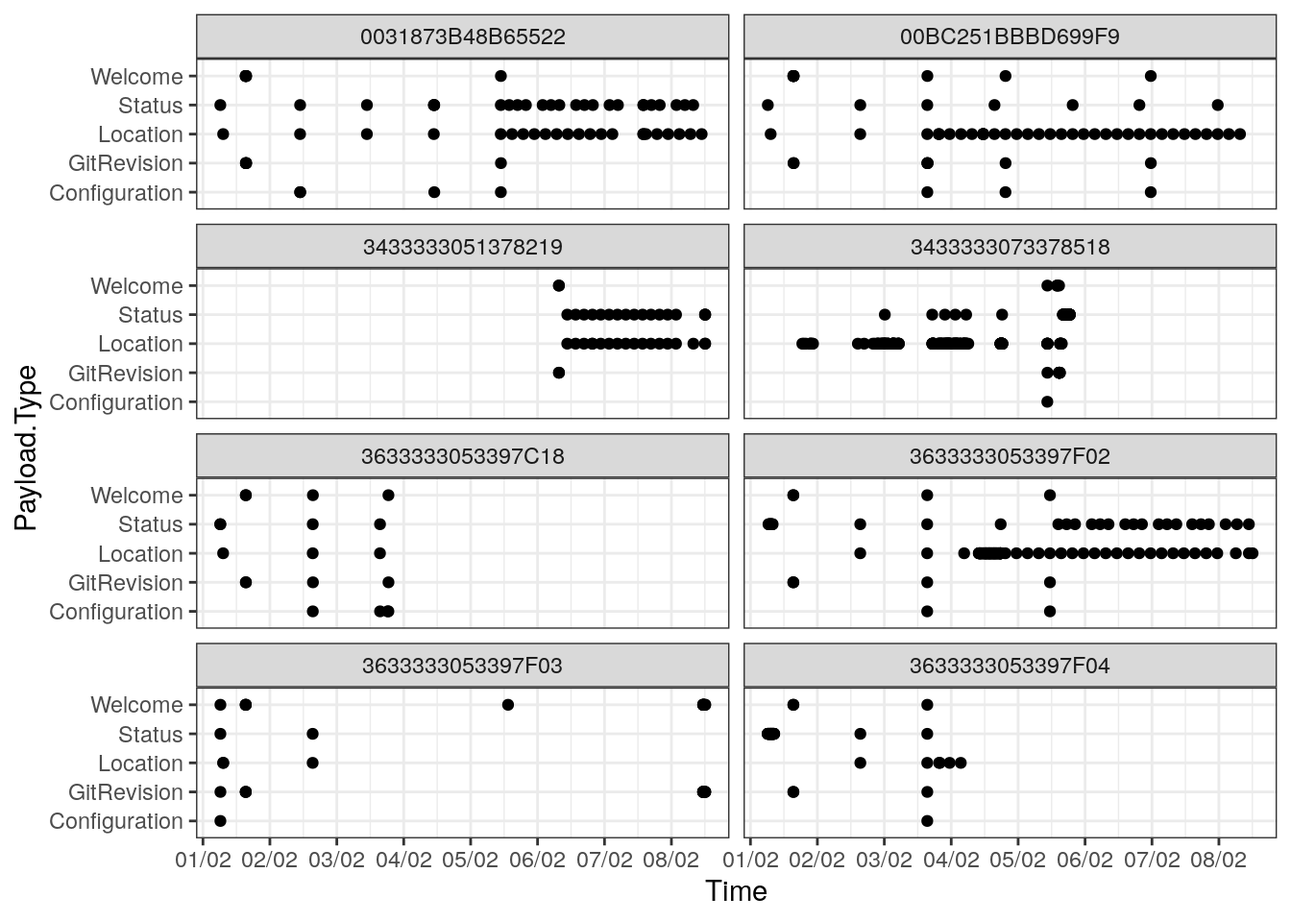
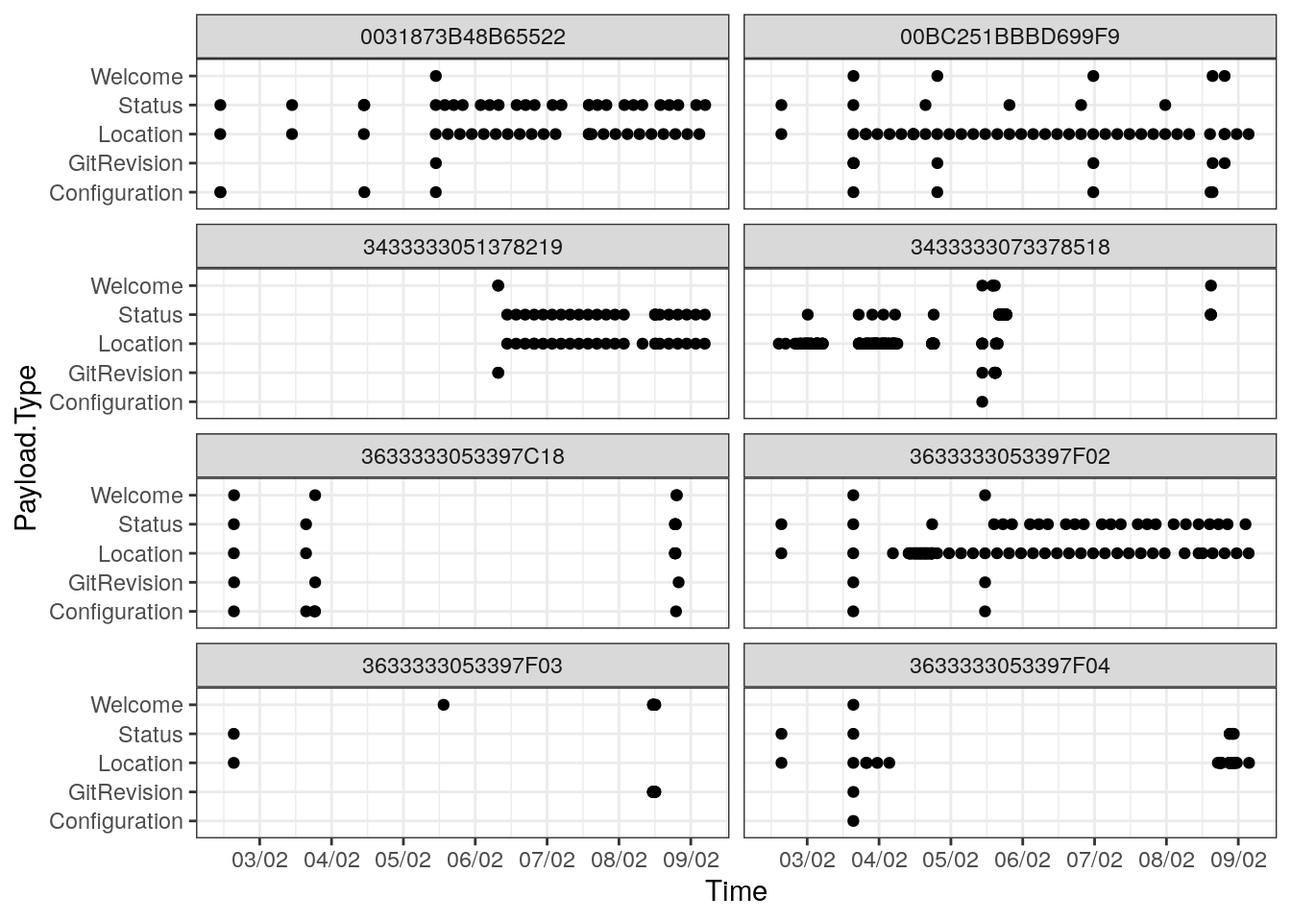
Aktualisierung 10.2

diff --git a/content/post/2021-02-05-fyy-test/index.html b/content/post/2021-02-05-fyy-test/index.html
@@ -24,7 +24,7 @@ tags: ["R Markdown"]
 <div id="server-connection" class="section level1">
 <h1>Server connection</h1>
 <ul>
-<li>Last compiled on 09 Februar, 2021</li>
+<li>Last compiled on 10 Februar, 2021</li>
 </ul>
 </div>
 <div id="shows-payload-last-3-days" class="section level1">
@@ -53,6 +53,9 @@ Temperatur
 <th style="text-align:right;">
 BatteryVoltage
 </th>
+<th style="text-align:right;">
+Payload.Content.GpsAverageSignal
+</th>
 </tr>
 </thead>
 <tbody>
@@ -72,6 +75,9 @@ BatteryVoltage
 <td style="text-align:right;">
 3502
 </td>
+<td style="text-align:right;">
+0
+</td>
 </tr>
 <tr>
 <td style="text-align:left;">
@@ -88,6 +94,9 @@ BatteryVoltage
 </td>
 <td style="text-align:right;">
 3536
+</td>
+<td style="text-align:right;">
+0
 </td>
 </tr>
 <tr>
@@ -106,6 +115,9 @@ BatteryVoltage
 <td style="text-align:right;">
 3524
 </td>
+<td style="text-align:right;">
+0
+</td>
 </tr>
 <tr>
 <td style="text-align:left;">
@@ -122,6 +134,9 @@ BatteryVoltage
 </td>
 <td style="text-align:right;">
 3572
+</td>
+<td style="text-align:right;">
+0
 </td>
 </tr>
 <tr>
@@ -140,6 +155,9 @@ BatteryVoltage
 <td style="text-align:right;">
 3420
 </td>
+<td style="text-align:right;">
+0
+</td>
 </tr>
 <tr>
 <td style="text-align:left;">
@@ -157,22 +175,8 @@ BatteryVoltage
 <td style="text-align:right;">
 3422
 </td>
-</tr>
-<tr>
-<td style="text-align:left;">
-2021-02-02 06:13:51
-</td>
 <td style="text-align:right;">
--118
-</td>
-<td style="text-align:right;">
-12
-</td>
-<td style="text-align:right;">
-5.5
-</td>
-<td style="text-align:right;">
-3482
+0
 </td>
 </tr>
 </tbody>
@@ -181,7 +185,7 @@ BatteryVoltage
 <div id="show-gateways-der-letzen-2-tage" class="section level1">
 <h1>Show Gateways der letzen 2 Tage</h1>
 <div id="htmlwidget-1" style="width:672px;height:480px;" class="leaflet html-widget"></div>
-<script type="application/json" data-for="htmlwidget-1">{"x":{"options":{"crs":{"crsClass":"L.CRS.EPSG3857","code":null,"proj4def":null,"projectedBounds":null,"options":{}}},"calls":[{"method":"createMapPane","args":["tmap401",401]},{"method":"addProviderTiles","args":["Esri.WorldGrayCanvas",null,"Esri.WorldGrayCanvas",{"minZoom":0,"maxZoom":18,"tileSize":256,"subdomains":"abc","errorTileUrl":"","tms":false,"noWrap":false,"zoomOffset":0,"zoomReverse":false,"opacity":1,"zIndex":1,"detectRetina":false,"pane":"tilePane"}]},{"method":"addProviderTiles","args":["OpenStreetMap",null,"OpenStreetMap",{"minZoom":0,"maxZoom":18,"tileSize":256,"subdomains":"abc","errorTileUrl":"","tms":false,"noWrap":false,"zoomOffset":0,"zoomReverse":false,"opacity":1,"zIndex":1,"detectRetina":false,"pane":"tilePane"}]},{"method":"addProviderTiles","args":["Esri.WorldTopoMap",null,"Esri.WorldTopoMap",{"minZoom":0,"maxZoom":18,"tileSize":256,"subdomains":"abc","errorTileUrl":"","tms":false,"noWrap":false,"zoomOffset":0,"zoomReverse":false,"opacity":1,"zIndex":1,"detectRetina":false,"pane":"tilePane"}]},{"method":"addCircleMarkers","args":[[46.945328010305,46.945343010305,46.945362010305,46.945362010305,46.9492800103049,46.9298930102553,46.9492760103049,46.945335010305,46.945351010305,46.9392620103035,46.9392660103035,46.9392660103035,46.9392740103035,46.9492610103049,46.945381010305,46.9492950103049,46.9392660103035,46.945343010305,46.9322170102988],[7.42996700737689,7.42995700737687,7.42992000737683,7.42992000737683,7.43694100738335,7.60664600756821,7.43692500738334,7.42997000737688,7.42991100737682,7.42626700737441,7.42627400737442,7.42627400737442,7.42626600737441,7.43695400738337,7.42987500737677,7.43693800738334,7.42626300737441,7.42996200737687,7.43412100738451],[10.9544511501033,10.9544511501033,10.9544511501033,10.9544511501033,10.9544511501033,10.9544511501033,10.9544511501033,10.9544511501033,10.9544511501033,10.9544511501033,10.9544511501033,10.9544511501033,10.9544511501033,10.9544511501033,10.9544511501033,10.9544511501033,10.9544511501033,10.9544511501033,10.9544511501033],["X2021.02.09.07.34.37","X2021.02.09.03.34.37","X2021.02.08.23.35.38","X2021.02.08.23.34.37","X2021.02.08.19.34.38","X2021.02.08.15.34.37","X2021.02.08.11.38.37","X2021.02.08.07.34.36","X2021.02.08.03.34.35","X2021.02.07.23.35.36","X2021.02.07.23.34.36","X2021.02.07.23.33.32","X2021.02.07.23.32.32","X2021.02.07.19.29.32","X2021.02.07.19.28.31","X2021.02.07.15.28.31","X2021.02.07.11.28.31","X2021.02.07.07.28.29","X2021.02.07.03.28.30"],"Fyygw_heute",{"interactive":true,"className":"","pane":"tmap401","stroke":true,"color":"#666666","weight":1,"opacity":0.5,"fill":true,"fillColor":["#8DD3C7","#8DD3C7","#8DD3C7","#8DD3C7","#8DD3C7","#8DD3C7","#8DD3C7","#8DD3C7","#8DD3C7","#8DD3C7","#8DD3C7","#8DD3C7","#8DD3C7","#8DD3C7","#8DD3C7","#8DD3C7","#8DD3C7","#8DD3C7","#8DD3C7"],"fillOpacity":[1,1,1,1,1,1,1,1,1,1,1,1,1,1,1,1,1,1,1]},null,null,["<style> div.leaflet-popup-content {width:auto !important;overflow-y:auto; overflow-x:hidden;}<\/style><div style=\"max-height:25em;padding-right:0px;\"><table>\n\t\t\t   <thead><tr><th colspan=\"2\"><b>2021-02-09 07:34:37<\/b><\/th><\/thead><\/tr><tr><td style=\"color: #888888;\"><nobr>DeviceEUI<\/nobr><\/td><td align=\"right\"><nobr>00BC251BBBD699F9<\/nobr><\/td><\/tr><\/table><\/div>","<style> div.leaflet-popup-content {width:auto !important;overflow-y:auto; overflow-x:hidden;}<\/style><div style=\"max-height:25em;padding-right:0px;\"><table>\n\t\t\t   <thead><tr><th colspan=\"2\"><b>2021-02-09 03:34:37<\/b><\/th><\/thead><\/tr><tr><td style=\"color: #888888;\"><nobr>DeviceEUI<\/nobr><\/td><td align=\"right\"><nobr>00BC251BBBD699F9<\/nobr><\/td><\/tr><\/table><\/div>","<style> div.leaflet-popup-content {width:auto !important;overflow-y:auto; overflow-x:hidden;}<\/style><div style=\"max-height:25em;padding-right:0px;\"><table>\n\t\t\t   <thead><tr><th colspan=\"2\"><b>2021-02-08 23:35:38<\/b><\/th><\/thead><\/tr><tr><td style=\"color: #888888;\"><nobr>DeviceEUI<\/nobr><\/td><td align=\"right\"><nobr>00BC251BBBD699F9<\/nobr><\/td><\/tr><\/table><\/div>","<style> div.leaflet-popup-content {width:auto !important;overflow-y:auto; overflow-x:hidden;}<\/style><div style=\"max-height:25em;padding-right:0px;\"><table>\n\t\t\t   <thead><tr><th colspan=\"2\"><b>2021-02-08 23:34:37<\/b><\/th><\/thead><\/tr><tr><td style=\"color: #888888;\"><nobr>DeviceEUI<\/nobr><\/td><td align=\"right\"><nobr>00BC251BBBD699F9<\/nobr><\/td><\/tr><\/table><\/div>","<style> div.leaflet-popup-content {width:auto !important;overflow-y:auto; overflow-x:hidden;}<\/style><div style=\"max-height:25em;padding-right:0px;\"><table>\n\t\t\t   <thead><tr><th colspan=\"2\"><b>2021-02-08 19:34:38<\/b><\/th><\/thead><\/tr><tr><td style=\"color: #888888;\"><nobr>DeviceEUI<\/nobr><\/td><td align=\"right\"><nobr>00BC251BBBD699F9<\/nobr><\/td><\/tr><\/table><\/div>","<style> div.leaflet-popup-content {width:auto !important;overflow-y:auto; overflow-x:hidden;}<\/style><div style=\"max-height:25em;padding-right:0px;\"><table>\n\t\t\t   <thead><tr><th colspan=\"2\"><b>2021-02-08 15:34:37<\/b><\/th><\/thead><\/tr><tr><td style=\"color: #888888;\"><nobr>DeviceEUI<\/nobr><\/td><td align=\"right\"><nobr>00BC251BBBD699F9<\/nobr><\/td><\/tr><\/table><\/div>","<style> div.leaflet-popup-content {width:auto !important;overflow-y:auto; overflow-x:hidden;}<\/style><div style=\"max-height:25em;padding-right:0px;\"><table>\n\t\t\t   <thead><tr><th colspan=\"2\"><b>2021-02-08 11:38:37<\/b><\/th><\/thead><\/tr><tr><td style=\"color: #888888;\"><nobr>DeviceEUI<\/nobr><\/td><td align=\"right\"><nobr>00BC251BBBD699F9<\/nobr><\/td><\/tr><\/table><\/div>","<style> div.leaflet-popup-content {width:auto !important;overflow-y:auto; overflow-x:hidden;}<\/style><div style=\"max-height:25em;padding-right:0px;\"><table>\n\t\t\t   <thead><tr><th colspan=\"2\"><b>2021-02-08 07:34:36<\/b><\/th><\/thead><\/tr><tr><td style=\"color: #888888;\"><nobr>DeviceEUI<\/nobr><\/td><td align=\"right\"><nobr>00BC251BBBD699F9<\/nobr><\/td><\/tr><\/table><\/div>","<style> div.leaflet-popup-content {width:auto !important;overflow-y:auto; overflow-x:hidden;}<\/style><div style=\"max-height:25em;padding-right:0px;\"><table>\n\t\t\t   <thead><tr><th colspan=\"2\"><b>2021-02-08 03:34:35<\/b><\/th><\/thead><\/tr><tr><td style=\"color: #888888;\"><nobr>DeviceEUI<\/nobr><\/td><td align=\"right\"><nobr>00BC251BBBD699F9<\/nobr><\/td><\/tr><\/table><\/div>","<style> div.leaflet-popup-content {width:auto !important;overflow-y:auto; overflow-x:hidden;}<\/style><div style=\"max-height:25em;padding-right:0px;\"><table>\n\t\t\t   <thead><tr><th colspan=\"2\"><b>2021-02-07 23:35:36<\/b><\/th><\/thead><\/tr><tr><td style=\"color: #888888;\"><nobr>DeviceEUI<\/nobr><\/td><td align=\"right\"><nobr>00BC251BBBD699F9<\/nobr><\/td><\/tr><\/table><\/div>","<style> div.leaflet-popup-content {width:auto !important;overflow-y:auto; overflow-x:hidden;}<\/style><div style=\"max-height:25em;padding-right:0px;\"><table>\n\t\t\t   <thead><tr><th colspan=\"2\"><b>2021-02-07 23:34:36<\/b><\/th><\/thead><\/tr><tr><td style=\"color: #888888;\"><nobr>DeviceEUI<\/nobr><\/td><td align=\"right\"><nobr>00BC251BBBD699F9<\/nobr><\/td><\/tr><\/table><\/div>","<style> div.leaflet-popup-content {width:auto !important;overflow-y:auto; overflow-x:hidden;}<\/style><div style=\"max-height:25em;padding-right:0px;\"><table>\n\t\t\t   <thead><tr><th colspan=\"2\"><b>2021-02-07 23:33:32<\/b><\/th><\/thead><\/tr><tr><td style=\"color: #888888;\"><nobr>DeviceEUI<\/nobr><\/td><td align=\"right\"><nobr>00BC251BBBD699F9<\/nobr><\/td><\/tr><\/table><\/div>","<style> div.leaflet-popup-content {width:auto !important;overflow-y:auto; overflow-x:hidden;}<\/style><div style=\"max-height:25em;padding-right:0px;\"><table>\n\t\t\t   <thead><tr><th colspan=\"2\"><b>2021-02-07 23:32:32<\/b><\/th><\/thead><\/tr><tr><td style=\"color: #888888;\"><nobr>DeviceEUI<\/nobr><\/td><td align=\"right\"><nobr>00BC251BBBD699F9<\/nobr><\/td><\/tr><\/table><\/div>","<style> div.leaflet-popup-content {width:auto !important;overflow-y:auto; overflow-x:hidden;}<\/style><div style=\"max-height:25em;padding-right:0px;\"><table>\n\t\t\t   <thead><tr><th colspan=\"2\"><b>2021-02-07 19:29:32<\/b><\/th><\/thead><\/tr><tr><td style=\"color: #888888;\"><nobr>DeviceEUI<\/nobr><\/td><td align=\"right\"><nobr>00BC251BBBD699F9<\/nobr><\/td><\/tr><\/table><\/div>","<style> div.leaflet-popup-content {width:auto !important;overflow-y:auto; overflow-x:hidden;}<\/style><div style=\"max-height:25em;padding-right:0px;\"><table>\n\t\t\t   <thead><tr><th colspan=\"2\"><b>2021-02-07 19:28:31<\/b><\/th><\/thead><\/tr><tr><td style=\"color: #888888;\"><nobr>DeviceEUI<\/nobr><\/td><td align=\"right\"><nobr>00BC251BBBD699F9<\/nobr><\/td><\/tr><\/table><\/div>","<style> div.leaflet-popup-content {width:auto !important;overflow-y:auto; overflow-x:hidden;}<\/style><div style=\"max-height:25em;padding-right:0px;\"><table>\n\t\t\t   <thead><tr><th colspan=\"2\"><b>2021-02-07 15:28:31<\/b><\/th><\/thead><\/tr><tr><td style=\"color: #888888;\"><nobr>DeviceEUI<\/nobr><\/td><td align=\"right\"><nobr>00BC251BBBD699F9<\/nobr><\/td><\/tr><\/table><\/div>","<style> div.leaflet-popup-content {width:auto !important;overflow-y:auto; overflow-x:hidden;}<\/style><div style=\"max-height:25em;padding-right:0px;\"><table>\n\t\t\t   <thead><tr><th colspan=\"2\"><b>2021-02-07 11:28:31<\/b><\/th><\/thead><\/tr><tr><td style=\"color: #888888;\"><nobr>DeviceEUI<\/nobr><\/td><td align=\"right\"><nobr>00BC251BBBD699F9<\/nobr><\/td><\/tr><\/table><\/div>","<style> div.leaflet-popup-content {width:auto !important;overflow-y:auto; overflow-x:hidden;}<\/style><div style=\"max-height:25em;padding-right:0px;\"><table>\n\t\t\t   <thead><tr><th colspan=\"2\"><b>2021-02-07 07:28:29<\/b><\/th><\/thead><\/tr><tr><td style=\"color: #888888;\"><nobr>DeviceEUI<\/nobr><\/td><td align=\"right\"><nobr>00BC251BBBD699F9<\/nobr><\/td><\/tr><\/table><\/div>","<style> div.leaflet-popup-content {width:auto !important;overflow-y:auto; overflow-x:hidden;}<\/style><div style=\"max-height:25em;padding-right:0px;\"><table>\n\t\t\t   <thead><tr><th colspan=\"2\"><b>2021-02-07 03:28:30<\/b><\/th><\/thead><\/tr><tr><td style=\"color: #888888;\"><nobr>DeviceEUI<\/nobr><\/td><td align=\"right\"><nobr>00BC251BBBD699F9<\/nobr><\/td><\/tr><\/table><\/div>"],null,["2021-02-09 07:34:37","2021-02-09 03:34:37","2021-02-08 23:35:38","2021-02-08 23:34:37","2021-02-08 19:34:38","2021-02-08 15:34:37","2021-02-08 11:38:37","2021-02-08 07:34:36","2021-02-08 03:34:35","2021-02-07 23:35:36","2021-02-07 23:34:36","2021-02-07 23:33:32","2021-02-07 23:32:32","2021-02-07 19:29:32","2021-02-07 19:28:31","2021-02-07 15:28:31","2021-02-07 11:28:31","2021-02-07 07:28:29","2021-02-07 03:28:30"],{"interactive":false,"permanent":false,"direction":"auto","opacity":1,"offset":[0,0],"textsize":"10px","textOnly":false,"className":"","sticky":true},null]},{"method":"addLegend","args":[{"colors":["#8DD3C7"],"labels":["00BC251BBBD699F9"],"na_color":null,"na_label":"NA","opacity":1,"position":"topright","type":"unknown","title":"DeviceEUI","extra":null,"layerId":"legend401","className":"info legend","group":"Fyygw_heute"}]},{"method":"addLayersControl","args":[["Esri.WorldGrayCanvas","OpenStreetMap","Esri.WorldTopoMap"],"Fyygw_heute",{"collapsed":true,"autoZIndex":true,"position":"topleft"}]}],"limits":{"lat":[46.9298930102553,46.9492950103049],"lng":[7.42626300737441,7.60664600756821]},"fitBounds":[46.9298930102553,7.42626300737441,46.9492950103049,7.60664600756821,[]]},"evals":[],"jsHooks":[]}</script>
+<script type="application/json" data-for="htmlwidget-1">{"x":{"options":{"crs":{"crsClass":"L.CRS.EPSG3857","code":null,"proj4def":null,"projectedBounds":null,"options":{}}},"calls":[{"method":"createMapPane","args":["tmap401",401]},{"method":"addProviderTiles","args":["Esri.WorldGrayCanvas",null,"Esri.WorldGrayCanvas",{"minZoom":0,"maxZoom":18,"tileSize":256,"subdomains":"abc","errorTileUrl":"","tms":false,"noWrap":false,"zoomOffset":0,"zoomReverse":false,"opacity":1,"zIndex":1,"detectRetina":false,"pane":"tilePane"}]},{"method":"addProviderTiles","args":["OpenStreetMap",null,"OpenStreetMap",{"minZoom":0,"maxZoom":18,"tileSize":256,"subdomains":"abc","errorTileUrl":"","tms":false,"noWrap":false,"zoomOffset":0,"zoomReverse":false,"opacity":1,"zIndex":1,"detectRetina":false,"pane":"tilePane"}]},{"method":"addProviderTiles","args":["Esri.WorldTopoMap",null,"Esri.WorldTopoMap",{"minZoom":0,"maxZoom":18,"tileSize":256,"subdomains":"abc","errorTileUrl":"","tms":false,"noWrap":false,"zoomOffset":0,"zoomReverse":false,"opacity":1,"zIndex":1,"detectRetina":false,"pane":"tilePane"}]},{"method":"addCircleMarkers","args":[[46.9381220102885,46.9480360102973,46.9381290102885,46.9382290102886,46.9382290102886,46.9481390102973,46.9478800102972,46.9381980102886,46.9381980102886,46.7117840101684,46.627579010109,46.945328010305,46.945343010305,46.945362010305,46.945362010305,46.9492800103049,46.9298930102553,46.9492760103049,46.945335010305,46.945351010305],[7.48574200743805,7.46603300741465,7.48573000743804,7.48564200743792,7.48564200743792,7.46596600741455,7.46596800741461,7.48567600743797,7.48567600743797,7.59364000760801,7.68582400772634,7.42996700737689,7.42995700737687,7.42992000737683,7.42992000737683,7.43694100738335,7.60664600756821,7.43692500738334,7.42997000737688,7.42991100737682],[10.9544511501033,10.9544511501033,10.9544511501033,10.9544511501033,10.9544511501033,10.9544511501033,10.9544511501033,10.9544511501033,10.9544511501033,10.9544511501033,10.9544511501033,10.9544511501033,10.9544511501033,10.9544511501033,10.9544511501033,10.9544511501033,10.9544511501033,10.9544511501033,10.9544511501033,10.9544511501033],["X2021.02.10.03.26.50","X2021.02.09.23.26.50","X2021.02.09.19.27.49","X2021.02.09.19.26.49","X2021.02.09.19.25.44","X2021.02.09.19.24.44","X2021.02.09.15.25.43","X2021.02.09.15.24.43","X2021.02.09.15.23.38","X2021.02.09.14.43.38","X2021.02.09.14.33.38","X2021.02.09.07.34.37","X2021.02.09.03.34.37","X2021.02.08.23.35.38","X2021.02.08.23.34.37","X2021.02.08.19.34.38","X2021.02.08.15.34.37","X2021.02.08.11.38.37","X2021.02.08.07.34.36","X2021.02.08.03.34.35"],"Fyygw_heute",{"interactive":true,"className":"","pane":"tmap401","stroke":true,"color":"#666666","weight":1,"opacity":0.5,"fill":true,"fillColor":["#8DD3C7","#8DD3C7","#8DD3C7","#8DD3C7","#8DD3C7","#8DD3C7","#8DD3C7","#8DD3C7","#8DD3C7","#8DD3C7","#8DD3C7","#8DD3C7","#8DD3C7","#8DD3C7","#8DD3C7","#8DD3C7","#8DD3C7","#8DD3C7","#8DD3C7","#8DD3C7"],"fillOpacity":[1,1,1,1,1,1,1,1,1,1,1,1,1,1,1,1,1,1,1,1]},null,null,["<style> div.leaflet-popup-content {width:auto !important;overflow-y:auto; overflow-x:hidden;}<\/style><div style=\"max-height:25em;padding-right:0px;\"><table>\n\t\t\t   <thead><tr><th colspan=\"2\"><b>2021-02-10 03:26:50<\/b><\/th><\/thead><\/tr><tr><td style=\"color: #888888;\"><nobr>DeviceEUI<\/nobr><\/td><td align=\"right\"><nobr>00BC251BBBD699F9<\/nobr><\/td><\/tr><\/table><\/div>","<style> div.leaflet-popup-content {width:auto !important;overflow-y:auto; overflow-x:hidden;}<\/style><div style=\"max-height:25em;padding-right:0px;\"><table>\n\t\t\t   <thead><tr><th colspan=\"2\"><b>2021-02-09 23:26:50<\/b><\/th><\/thead><\/tr><tr><td style=\"color: #888888;\"><nobr>DeviceEUI<\/nobr><\/td><td align=\"right\"><nobr>00BC251BBBD699F9<\/nobr><\/td><\/tr><\/table><\/div>","<style> div.leaflet-popup-content {width:auto !important;overflow-y:auto; overflow-x:hidden;}<\/style><div style=\"max-height:25em;padding-right:0px;\"><table>\n\t\t\t   <thead><tr><th colspan=\"2\"><b>2021-02-09 19:27:49<\/b><\/th><\/thead><\/tr><tr><td style=\"color: #888888;\"><nobr>DeviceEUI<\/nobr><\/td><td align=\"right\"><nobr>00BC251BBBD699F9<\/nobr><\/td><\/tr><\/table><\/div>","<style> div.leaflet-popup-content {width:auto !important;overflow-y:auto; overflow-x:hidden;}<\/style><div style=\"max-height:25em;padding-right:0px;\"><table>\n\t\t\t   <thead><tr><th colspan=\"2\"><b>2021-02-09 19:26:49<\/b><\/th><\/thead><\/tr><tr><td style=\"color: #888888;\"><nobr>DeviceEUI<\/nobr><\/td><td align=\"right\"><nobr>00BC251BBBD699F9<\/nobr><\/td><\/tr><\/table><\/div>","<style> div.leaflet-popup-content {width:auto !important;overflow-y:auto; overflow-x:hidden;}<\/style><div style=\"max-height:25em;padding-right:0px;\"><table>\n\t\t\t   <thead><tr><th colspan=\"2\"><b>2021-02-09 19:25:44<\/b><\/th><\/thead><\/tr><tr><td style=\"color: #888888;\"><nobr>DeviceEUI<\/nobr><\/td><td align=\"right\"><nobr>00BC251BBBD699F9<\/nobr><\/td><\/tr><\/table><\/div>","<style> div.leaflet-popup-content {width:auto !important;overflow-y:auto; overflow-x:hidden;}<\/style><div style=\"max-height:25em;padding-right:0px;\"><table>\n\t\t\t   <thead><tr><th colspan=\"2\"><b>2021-02-09 19:24:44<\/b><\/th><\/thead><\/tr><tr><td style=\"color: #888888;\"><nobr>DeviceEUI<\/nobr><\/td><td align=\"right\"><nobr>00BC251BBBD699F9<\/nobr><\/td><\/tr><\/table><\/div>","<style> div.leaflet-popup-content {width:auto !important;overflow-y:auto; overflow-x:hidden;}<\/style><div style=\"max-height:25em;padding-right:0px;\"><table>\n\t\t\t   <thead><tr><th colspan=\"2\"><b>2021-02-09 15:25:43<\/b><\/th><\/thead><\/tr><tr><td style=\"color: #888888;\"><nobr>DeviceEUI<\/nobr><\/td><td align=\"right\"><nobr>00BC251BBBD699F9<\/nobr><\/td><\/tr><\/table><\/div>","<style> div.leaflet-popup-content {width:auto !important;overflow-y:auto; overflow-x:hidden;}<\/style><div style=\"max-height:25em;padding-right:0px;\"><table>\n\t\t\t   <thead><tr><th colspan=\"2\"><b>2021-02-09 15:24:43<\/b><\/th><\/thead><\/tr><tr><td style=\"color: #888888;\"><nobr>DeviceEUI<\/nobr><\/td><td align=\"right\"><nobr>00BC251BBBD699F9<\/nobr><\/td><\/tr><\/table><\/div>","<style> div.leaflet-popup-content {width:auto !important;overflow-y:auto; overflow-x:hidden;}<\/style><div style=\"max-height:25em;padding-right:0px;\"><table>\n\t\t\t   <thead><tr><th colspan=\"2\"><b>2021-02-09 15:23:38<\/b><\/th><\/thead><\/tr><tr><td style=\"color: #888888;\"><nobr>DeviceEUI<\/nobr><\/td><td align=\"right\"><nobr>00BC251BBBD699F9<\/nobr><\/td><\/tr><\/table><\/div>","<style> div.leaflet-popup-content {width:auto !important;overflow-y:auto; overflow-x:hidden;}<\/style><div style=\"max-height:25em;padding-right:0px;\"><table>\n\t\t\t   <thead><tr><th colspan=\"2\"><b>2021-02-09 14:43:38<\/b><\/th><\/thead><\/tr><tr><td style=\"color: #888888;\"><nobr>DeviceEUI<\/nobr><\/td><td align=\"right\"><nobr>00BC251BBBD699F9<\/nobr><\/td><\/tr><\/table><\/div>","<style> div.leaflet-popup-content {width:auto !important;overflow-y:auto; overflow-x:hidden;}<\/style><div style=\"max-height:25em;padding-right:0px;\"><table>\n\t\t\t   <thead><tr><th colspan=\"2\"><b>2021-02-09 14:33:38<\/b><\/th><\/thead><\/tr><tr><td style=\"color: #888888;\"><nobr>DeviceEUI<\/nobr><\/td><td align=\"right\"><nobr>00BC251BBBD699F9<\/nobr><\/td><\/tr><\/table><\/div>","<style> div.leaflet-popup-content {width:auto !important;overflow-y:auto; overflow-x:hidden;}<\/style><div style=\"max-height:25em;padding-right:0px;\"><table>\n\t\t\t   <thead><tr><th colspan=\"2\"><b>2021-02-09 07:34:37<\/b><\/th><\/thead><\/tr><tr><td style=\"color: #888888;\"><nobr>DeviceEUI<\/nobr><\/td><td align=\"right\"><nobr>00BC251BBBD699F9<\/nobr><\/td><\/tr><\/table><\/div>","<style> div.leaflet-popup-content {width:auto !important;overflow-y:auto; overflow-x:hidden;}<\/style><div style=\"max-height:25em;padding-right:0px;\"><table>\n\t\t\t   <thead><tr><th colspan=\"2\"><b>2021-02-09 03:34:37<\/b><\/th><\/thead><\/tr><tr><td style=\"color: #888888;\"><nobr>DeviceEUI<\/nobr><\/td><td align=\"right\"><nobr>00BC251BBBD699F9<\/nobr><\/td><\/tr><\/table><\/div>","<style> div.leaflet-popup-content {width:auto !important;overflow-y:auto; overflow-x:hidden;}<\/style><div style=\"max-height:25em;padding-right:0px;\"><table>\n\t\t\t   <thead><tr><th colspan=\"2\"><b>2021-02-08 23:35:38<\/b><\/th><\/thead><\/tr><tr><td style=\"color: #888888;\"><nobr>DeviceEUI<\/nobr><\/td><td align=\"right\"><nobr>00BC251BBBD699F9<\/nobr><\/td><\/tr><\/table><\/div>","<style> div.leaflet-popup-content {width:auto !important;overflow-y:auto; overflow-x:hidden;}<\/style><div style=\"max-height:25em;padding-right:0px;\"><table>\n\t\t\t   <thead><tr><th colspan=\"2\"><b>2021-02-08 23:34:37<\/b><\/th><\/thead><\/tr><tr><td style=\"color: #888888;\"><nobr>DeviceEUI<\/nobr><\/td><td align=\"right\"><nobr>00BC251BBBD699F9<\/nobr><\/td><\/tr><\/table><\/div>","<style> div.leaflet-popup-content {width:auto !important;overflow-y:auto; overflow-x:hidden;}<\/style><div style=\"max-height:25em;padding-right:0px;\"><table>\n\t\t\t   <thead><tr><th colspan=\"2\"><b>2021-02-08 19:34:38<\/b><\/th><\/thead><\/tr><tr><td style=\"color: #888888;\"><nobr>DeviceEUI<\/nobr><\/td><td align=\"right\"><nobr>00BC251BBBD699F9<\/nobr><\/td><\/tr><\/table><\/div>","<style> div.leaflet-popup-content {width:auto !important;overflow-y:auto; overflow-x:hidden;}<\/style><div style=\"max-height:25em;padding-right:0px;\"><table>\n\t\t\t   <thead><tr><th colspan=\"2\"><b>2021-02-08 15:34:37<\/b><\/th><\/thead><\/tr><tr><td style=\"color: #888888;\"><nobr>DeviceEUI<\/nobr><\/td><td align=\"right\"><nobr>00BC251BBBD699F9<\/nobr><\/td><\/tr><\/table><\/div>","<style> div.leaflet-popup-content {width:auto !important;overflow-y:auto; overflow-x:hidden;}<\/style><div style=\"max-height:25em;padding-right:0px;\"><table>\n\t\t\t   <thead><tr><th colspan=\"2\"><b>2021-02-08 11:38:37<\/b><\/th><\/thead><\/tr><tr><td style=\"color: #888888;\"><nobr>DeviceEUI<\/nobr><\/td><td align=\"right\"><nobr>00BC251BBBD699F9<\/nobr><\/td><\/tr><\/table><\/div>","<style> div.leaflet-popup-content {width:auto !important;overflow-y:auto; overflow-x:hidden;}<\/style><div style=\"max-height:25em;padding-right:0px;\"><table>\n\t\t\t   <thead><tr><th colspan=\"2\"><b>2021-02-08 07:34:36<\/b><\/th><\/thead><\/tr><tr><td style=\"color: #888888;\"><nobr>DeviceEUI<\/nobr><\/td><td align=\"right\"><nobr>00BC251BBBD699F9<\/nobr><\/td><\/tr><\/table><\/div>","<style> div.leaflet-popup-content {width:auto !important;overflow-y:auto; overflow-x:hidden;}<\/style><div style=\"max-height:25em;padding-right:0px;\"><table>\n\t\t\t   <thead><tr><th colspan=\"2\"><b>2021-02-08 03:34:35<\/b><\/th><\/thead><\/tr><tr><td style=\"color: #888888;\"><nobr>DeviceEUI<\/nobr><\/td><td align=\"right\"><nobr>00BC251BBBD699F9<\/nobr><\/td><\/tr><\/table><\/div>"],null,["2021-02-10 03:26:50","2021-02-09 23:26:50","2021-02-09 19:27:49","2021-02-09 19:26:49","2021-02-09 19:25:44","2021-02-09 19:24:44","2021-02-09 15:25:43","2021-02-09 15:24:43","2021-02-09 15:23:38","2021-02-09 14:43:38","2021-02-09 14:33:38","2021-02-09 07:34:37","2021-02-09 03:34:37","2021-02-08 23:35:38","2021-02-08 23:34:37","2021-02-08 19:34:38","2021-02-08 15:34:37","2021-02-08 11:38:37","2021-02-08 07:34:36","2021-02-08 03:34:35"],{"interactive":false,"permanent":false,"direction":"auto","opacity":1,"offset":[0,0],"textsize":"10px","textOnly":false,"className":"","sticky":true},null]},{"method":"addLegend","args":[{"colors":["#8DD3C7"],"labels":["00BC251BBBD699F9"],"na_color":null,"na_label":"NA","opacity":1,"position":"topright","type":"unknown","title":"DeviceEUI","extra":null,"layerId":"legend401","className":"info legend","group":"Fyygw_heute"}]},{"method":"addLayersControl","args":[["Esri.WorldGrayCanvas","OpenStreetMap","Esri.WorldTopoMap"],"Fyygw_heute",{"collapsed":true,"autoZIndex":true,"position":"topleft"}]}],"limits":{"lat":[46.627579010109,46.9492800103049],"lng":[7.42991100737682,7.68582400772634]},"fitBounds":[46.627579010109,7.42991100737682,46.9492800103049,7.68582400772634,[]]},"evals":[],"jsHooks":[]}</script>
 </div>
 <div id="localisationen-seit-2021-02-03" class="section level1">
 <h1>Localisationen seit “2021-02-03”</h1>
@@ -214,6 +218,91 @@ Altitude
 </tr>
 </thead>
 <tbody>
+<tr>
+<td style="text-align:left;">
+2021-02-10 03:26:50
+</td>
+<td style="text-align:right;">
+-114
+</td>
+<td style="text-align:right;">
+0.00000
+</td>
+<td style="text-align:right;">
+0.0000
+</td>
+<td style="text-align:right;">
+0.0
+</td>
+</tr>
+<tr>
+<td style="text-align:left;">
+2021-02-09 23:26:50
+</td>
+<td style="text-align:right;">
+-116
+</td>
+<td style="text-align:right;">
+0.00000
+</td>
+<td style="text-align:right;">
+0.0000
+</td>
+<td style="text-align:right;">
+0.0
+</td>
+</tr>
+<tr>
+<td style="text-align:left;">
+2021-02-09 19:25:44
+</td>
+<td style="text-align:right;">
+-119
+</td>
+<td style="text-align:right;">
+0.00000
+</td>
+<td style="text-align:right;">
+0.0000
+</td>
+<td style="text-align:right;">
+0.0
+</td>
+</tr>
+<tr>
+<td style="text-align:left;">
+2021-02-09 19:24:44
+</td>
+<td style="text-align:right;">
+-116
+</td>
+<td style="text-align:right;">
+0.00000
+</td>
+<td style="text-align:right;">
+0.0000
+</td>
+<td style="text-align:right;">
+0.0
+</td>
+</tr>
+<tr>
+<td style="text-align:left;">
+2021-02-09 14:33:38
+</td>
+<td style="text-align:right;">
+-113
+</td>
+<td style="text-align:right;">
+0.00000
+</td>
+<td style="text-align:right;">
+0.0000
+</td>
+<td style="text-align:right;">
+0.0
+</td>
+</tr>
 <tr>
 <td style="text-align:left;">
 2021-02-09 07:34:37
@@ -790,23 +879,6 @@ Altitude
 </td>
 <td style="text-align:right;">
 440.1
-</td>
-</tr>
-<tr>
-<td style="text-align:left;">
-2021-02-02 07:14:51
-</td>
-<td style="text-align:right;">
--111
-</td>
-<td style="text-align:right;">
-0.00000
-</td>
-<td style="text-align:right;">
-0.0000
-</td>
-<td style="text-align:right;">
-0.0
 </td>
 </tr>
 </tbody>

diff --git a/content/post/2021-01-24-beschreibung/index.html b/content/post/2021-01-24-beschreibung/index.html
@@ -15,7 +15,7 @@ tags: ["R Markdown"]
 <div id="server-connection" class="section level1">
 <h1>Server connection</h1>
 <ul>
-<li>Last compiled on 09 Februar, 2021</li>
+<li>Last compiled on 10 Februar, 2021</li>
 </ul>
 </div>
 <div id="shows-payload-last-7-days" class="section level1">
